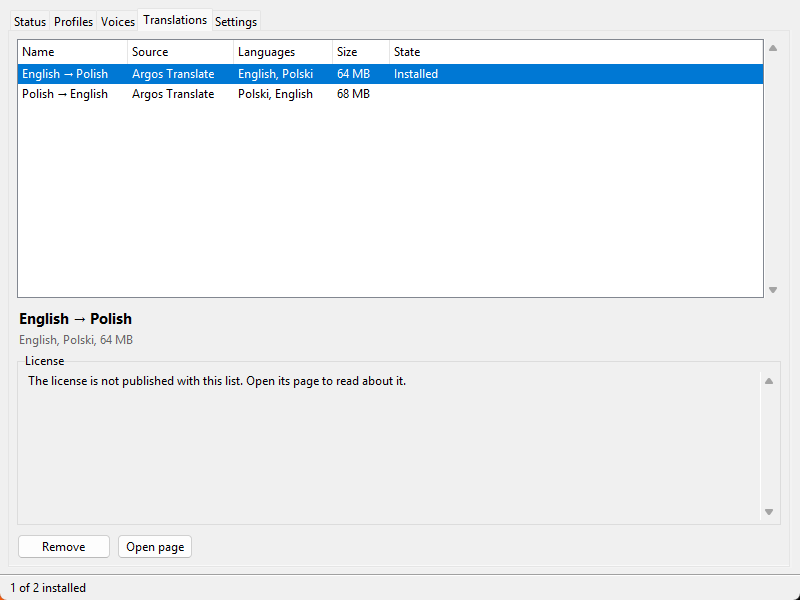
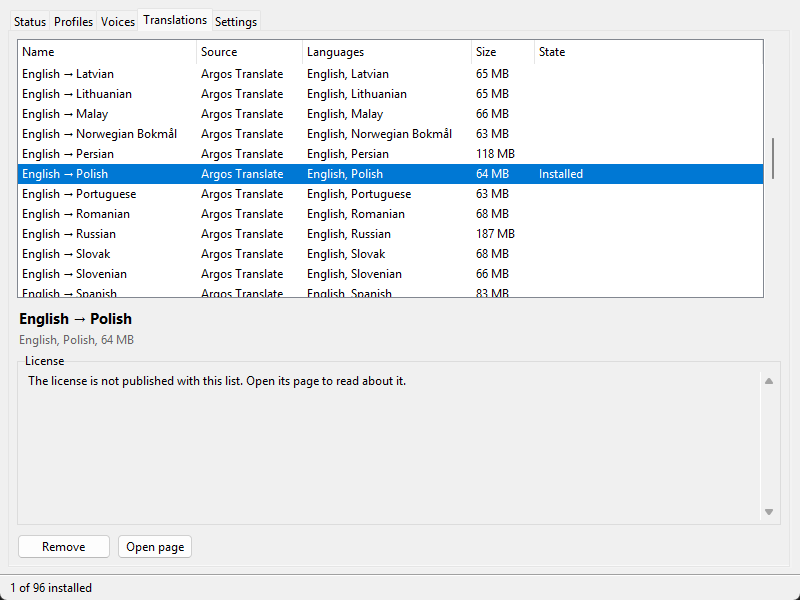
docs: retake the Profiles, Voices and Translations screenshots
The Profiles tab now shows Grand Theft Auto 2 without the overlay. The
Voices and Translations tabs list every Piper voice and Argos Translate
model, with languages by their English names; the Voices picture
selects an installed Polish voice, so voices of other languages show
around it. The README's alt text says so.

Changed region(s): [[0.0, 0.06, 0.9688, 0.51], [0.0938, 0.54, 0.1875, 0.57], [0.0312, 0.96, 0.125, 0.99]]

diff --git a/README.md b/README.md
@@ -58,8 +58,8 @@ Rather not install anything? Download `ReflektorTTS-<version>-windows-x64.zip` i
     <td align="center">The apps it reads, rated by how far they are tested</td>
   </tr>
   <tr>
-    <td><img src="docs/images/voices.png" alt="The Voices tab, listing Piper voices to download, with the selected voice's model card and license"></td>
-    <td><img src="docs/images/translations.png" alt="The Translations tab, listing Argos Translate models to download, with the installed English to Polish model selected"></td>
+    <td><img src="docs/images/voices.png" alt="The Voices tab, listing Piper voices to download in every language next to the installed Windows voices, with the installed Polish voice pl_PL-gosia-medium selected and its model card"></td>
+    <td><img src="docs/images/translations.png" alt="The Translations tab, listing Argos Translate models to download for every language, with the installed English to Polish model selected"></td>
   </tr>
   <tr>
     <td align="center">Voices to download</td>
